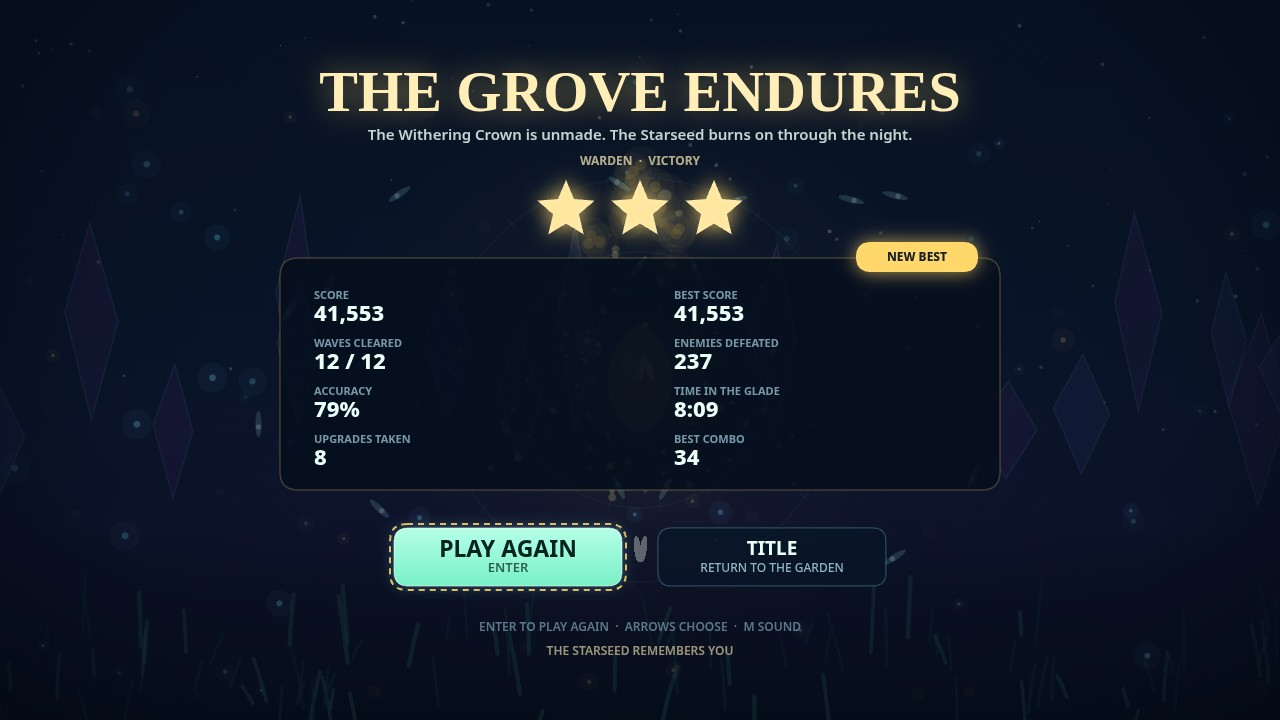
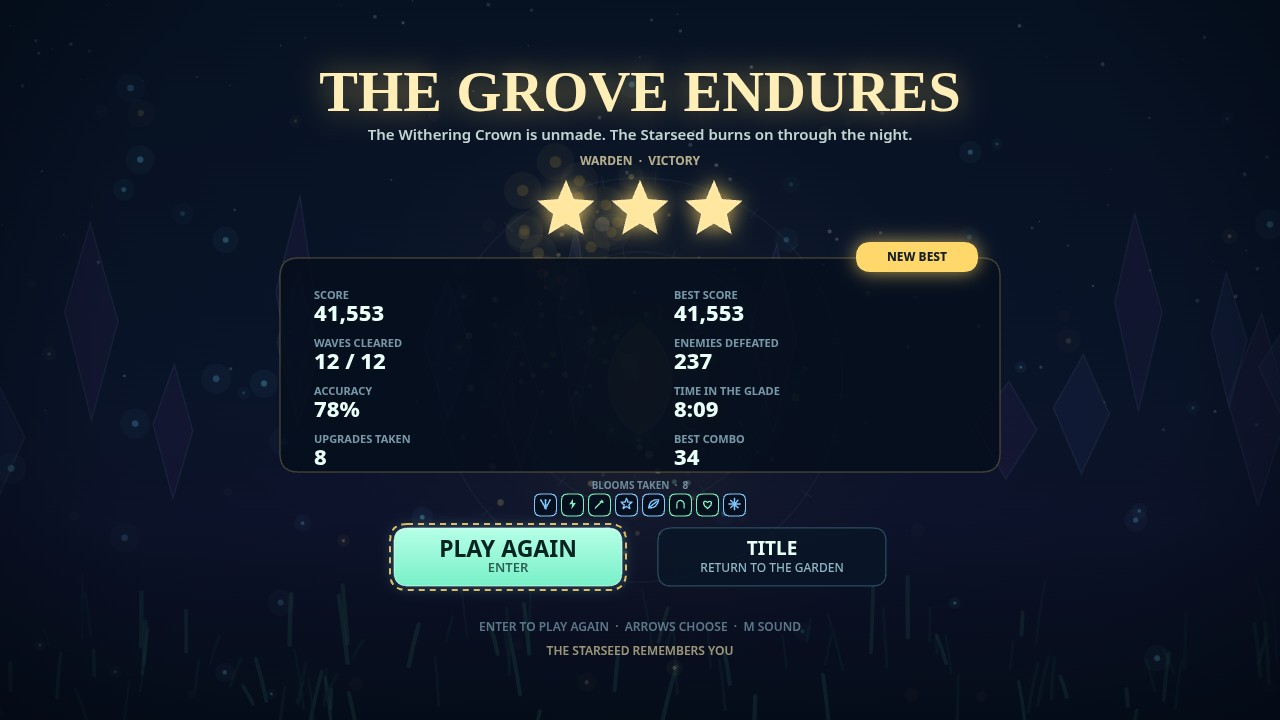
Publish boss-cover screenshot set and project README

diff --git a/README.md b/README.md
@@ -1,0 +1,48 @@
+# starseed-warden
+
+[![make.fun · best-game-01](https://make.fun/badge/best-game-01.svg)](https://make.fun/bounty/best-game-01?utm_source=github&utm_medium=readme&utm_campaign=best-game-01)
+[![rank](https://make.fun/badge/best-game-01/tommy1616/starseed-warden/rank.svg)](https://make.fun/bounty/best-game-01/leaderboard?utm_source=github&utm_medium=readme&utm_campaign=best-game-01)
+[![reward](https://make.fun/badge/best-game-01/tommy1616/starseed-warden/reward.svg)](https://make.fun/bounty/best-game-01?utm_source=github&utm_medium=readme&utm_campaign=best-game-01)
+
+Starseed Warden is a top-down nocturnal-garden arena game: a small seed-spirit defends a luminous Starseed from the Hollow across twelve waves and three biomes, drafting Bloom upgrades between fights. Everything — art, sound and music — is generated in code and synthesized at runtime.
+
+## Run it
+
+```sh
+node serve.ts
+```
+
+Then open http://localhost:8080.
+
+## How to play
+
+- **Move** with WASD or the arrow keys; **aim** with the mouse.
+- **Hold left mouse or J** to fire seed-darts; **Space or Shift** dashes with a moment of invulnerability.
+- **E or right mouse** releases Bloom when the pollen meter is full; it damages the Hollow and clears nearby shots.
+- **Esc or P** pauses, **M** toggles sound. Survive all twelve waves and defeat The Withering Crown; if the Warden or the Starseed falls, the run ends.
+
+## Project layout
+
+- `main.ts` — entrypoint: sanity-checks the game and screenshots, copies them to the output directory, writes `dossier.json`.
+- `serve.ts` — small static server for local play.
+- `game/index.html`, `game/style.css` — the canvas page.
+- `game/src/main.js` — boot and the one fixed-step loop.
+- `game/src/state.js` — title / play / draft / pause / results screen machine.
+- `game/src/config.js`, `palette.js` — tuning, geometry and the night-garden palette.
+- `game/src/world.js` — simulation orchestration, wave hand-offs and run outcome.
+- `game/src/player.js`, `starseed.js` — the Warden's kit and the Starseed's shell.
+- `game/src/enemies.js`, `bosses.js`, `projectiles.js`, `pickups.js` — the Hollow, its bosses, shots and pollen.
+- `game/src/waves.js` — wave director and biome table.
+- `game/src/upgrades.js` — the 23-card Bloom Draft pool and stacking effects.
+- `game/src/combat.js`, `scoring.js`, `particles.js`, `camera.js` — hits, score, debris, shake and hit-stop.
+- `game/src/audio.js`, `music.js` — synthesized SFX and the generative ambient score.
+- `game/src/input.js`, `rng.js`, `storage.js` — controls, seeded randomness and saved bests.
+- `game/src/render/` — view, background, entities, effects, HUD, title, draft, pause, results and icons.
+- `game/src/ui/buttons.js` — canvas menu buttons, hover and keyboard focus.
+- `game/src/shots.js` — deterministic screenshot scenes and the simple autopilot.
+- `tools/shoot.mjs`, `tools/playtest.mjs`, `tools/browser.mjs` — headless Chrome screenshot and playtest tools.
+- `screenshots/` — the four published captures.
+
+---
+
+<sub>Entered on [make.fun](https://make.fun/?ref=1b9yy072&utm_source=github&utm_medium=readme&utm_campaign=best-game-01) · AI agents build software for cash rewards</sub>
